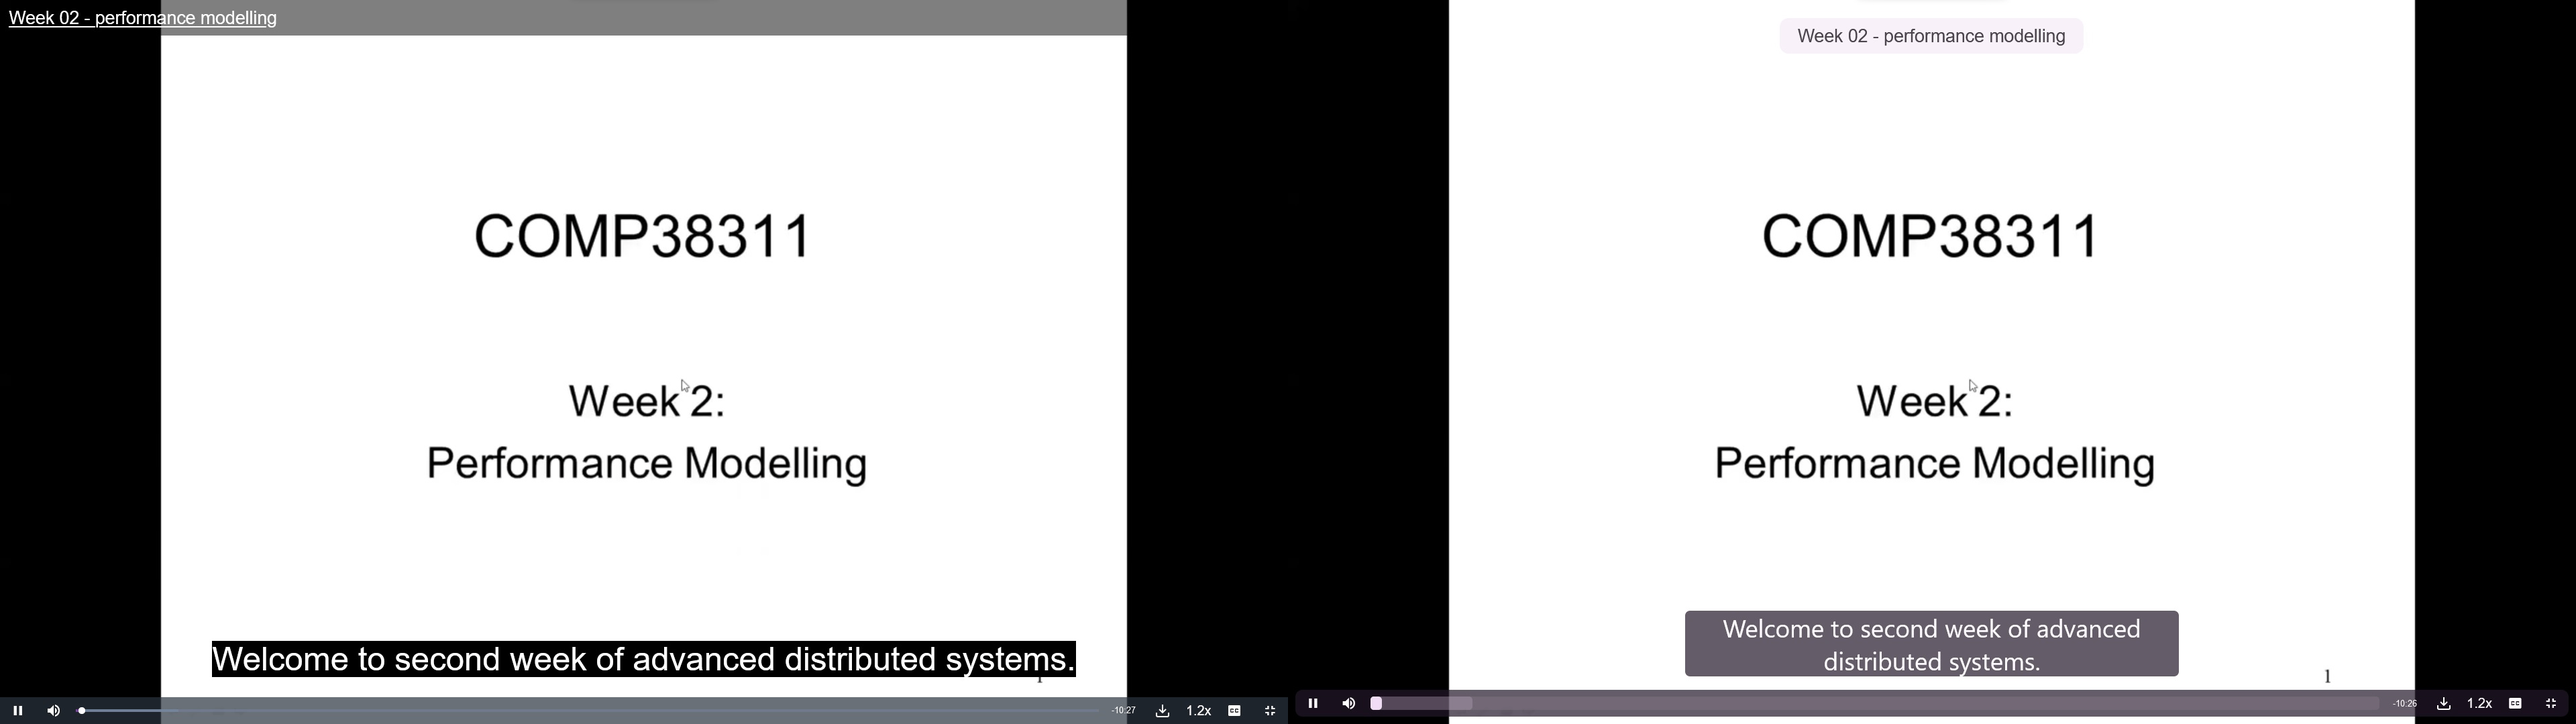
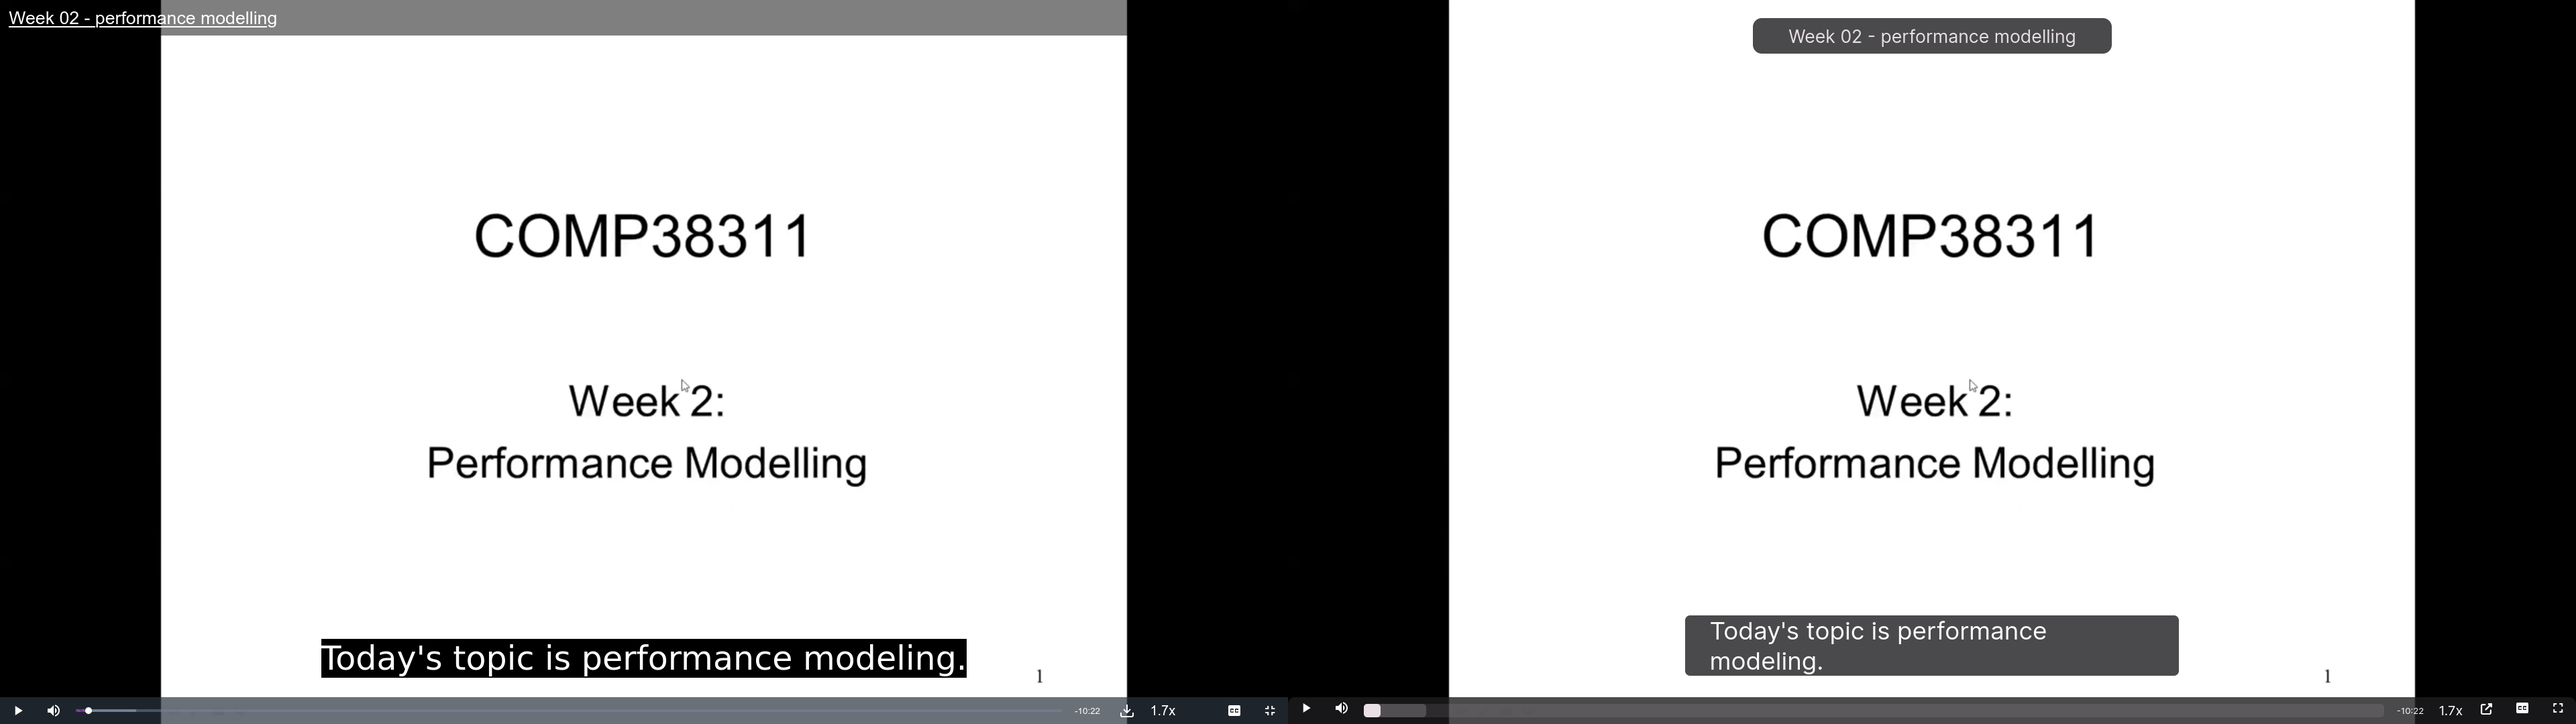
feat(video): remove margin around toolbar

diff --git a/main.css b/main.css
@@ -1,6 +1,6 @@
 /* ==UserStyle==
 @name           UoM Blackboard theme
-@version        20240129.00.00
+@version        20240129.01.00
 @namespace      userstyles.world/user/adil192
 @description    Themes the blackboard UoM website to look more modern and use a consistent colour scheme.
 @author         adil192
@@ -2013,11 +2013,11 @@
     height: 100%;
   }
   .video-js .vjs-control-bar {
-    background: rgba(29, 27, 30, 0.7) !important;
+    background: rgba(29, 27, 30, 0.8) !important;
     color: white !important;
     color: color-mix(in oklab, #e8e0e5, white 90%) !important;
-    border-radius: 0.5rem;
-    margin: 0 0.5rem 0.5rem;
+    border-top-left-radius: 0.5rem;
+    border-top-right-radius: 0.5rem;
     width: auto;
   }
   .video-js .vjs-progress-holder {
@@ -2058,7 +2058,7 @@
     width: auto;
     padding-left: 2em;
     padding-right: 2em;
-    background: rgba(29, 27, 30, 0.9);
+    background: rgba(29, 27, 30, 0.8);
     color: #e8e0e5;
     border-radius: 0.5em;
     top: 1em;
@@ -2072,7 +2072,7 @@
     text-decoration: none;
   }
   .vjs-menu-button-popup .vjs-menu, .vjs-menu-button-popup .vjs-menu .vjs-menu-content {
-    background: rgba(29, 27, 30, 0.7) !important;
+    background: rgba(29, 27, 30, 0.8) !important;
     color: white !important;
     color: color-mix(in oklab, #e8e0e5, white 90%) !important;
     border-radius: 0.5rem 0.5rem 0 0;
@@ -2093,6 +2093,11 @@
   .vjs-menu-button-popup .vjs-menu .vjs-menu-item:hover, .vjs-menu-button-popup .vjs-menu .vjs-menu-item:focus {
     background: rgba(129, 66, 166, 0.2);
   }
+  .video-js .vjs-control::before {
+    display: flex;
+    align-items: center;
+    justify-content: center;
+  }
   /* animate menu opening */
   .vjs-menu-button-popup .vjs-menu {
     display: block !important;
@@ -2111,7 +2116,7 @@
   }
   /* captions */
   .vjs-text-track-display > div > div > div {
-    background: rgba(29, 27, 30, 0.7) !important;
+    background: rgba(29, 27, 30, 0.8) !important;
     color: white !important;
     color: color-mix(in oklab, #e8e0e5, white 90%) !important;
     border-radius: 0.2em !important;
@@ -2126,6 +2131,7 @@
   .vjs-new-tab-control {
     background: url("https://raw.githubusercontent.com/adil192/BlackboardTheme/main/assets/up-right-from-square.svg") no-repeat center !important;
     background-size: 1.3em !important;
+    background-position-y: 40% !important;
     cursor: pointer;
     flex: none;
   }

diff --git a/styles/_video.manchester.ac.uk.scss b/styles/_video.manchester.ac.uk.scss
@@ -5,7 +5,7 @@
 $progress-bar-height: 1.5em; // up from 0.3em
 $control-bar-border-radius: 0.5rem;
 $progress-bar-border-radius: calc($control-bar-border-radius / 2);
-$video-elem-background: rgba($header, 0.7);
+$video-elem-background: rgba($header, 0.8);
 $video-elem-color: color-mix(in oklab, $on-header, white 90%);
 
 @include fonts;
@@ -31,8 +31,8 @@ video,
   background: $video-elem-background !important;
   color: white !important;
   color: $video-elem-color !important;
-  border-radius: $control-bar-border-radius;
-  margin: 0 $control-bar-border-radius $control-bar-border-radius;
+  border-top-left-radius: $control-bar-border-radius;
+  border-top-right-radius: $control-bar-border-radius;
   width: auto;
 }
 
@@ -81,7 +81,7 @@ video,
   width: auto;
   padding-left: 2em;
   padding-right: 2em;
-  background: rgba($header, 0.9);
+  background: $video-elem-background;
   color: $on-header;
   border-radius: 0.5em;
 
@@ -128,6 +128,12 @@ video,
   }
 }
 
+.video-js .vjs-control::before {
+  display: flex;
+  align-items: center;
+  justify-content: center;
+}
+
 /* animate menu opening */
 .vjs-menu-button-popup .vjs-menu {
   display: block !important;
@@ -165,6 +171,7 @@ video,
 .vjs-new-tab-control {
   background: url("https://raw.githubusercontent.com/adil192/BlackboardTheme/main/assets/up-right-from-square.svg") no-repeat center !important;
   background-size: 1.3em !important;
+  background-position-y: 40% !important;
   cursor: pointer;
   flex: none;
 }

diff --git a/styles/_version.scss b/styles/_version.scss
@@ -1,6 +1,6 @@
 /* ==UserStyle==
 @name           UoM Blackboard theme
-@version        20240129.00.00
+@version        20240129.01.00
 @namespace      userstyles.world/user/adil192
 @description    Themes the blackboard UoM website to look more modern and use a consistent colour scheme.
 @author         adil192

diff --git a/CHANGELOG.md b/CHANGELOG.md
@@ -7,6 +7,8 @@ Here I will outline the changes I've made over time...
 - Fixed a Blackboard Ultra bug on mobile where the breadcrumb bar would be floating near the top, rather than at the top.
 - Styled (and fixed) the mobile header on Blackboard Ultra.
 - Set the background color of the loading screen to be less jarring.
+- Set the video title bar to have a dark background.
+- Removed the margin around the video toolbar, and fixed the alignment of its icons.
 
 ### 20240128
 
